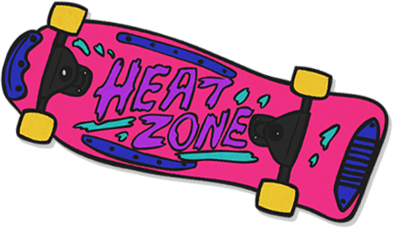
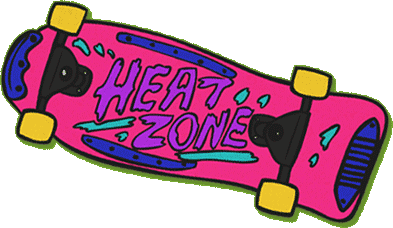
updated image sizes for cssoff

diff --git a/cssoff/HTML/css/styles.css b/cssoff/HTML/css/styles.css
@@ -319,7 +319,7 @@ display:block;
 }
 .obstacles div ul li figure img{
 margin:0 auto;
-width:auto !important;
+width:363px !important;
 height:auto !important;
 }
 .obstacles div ul li:nth-child(1) figure img{
